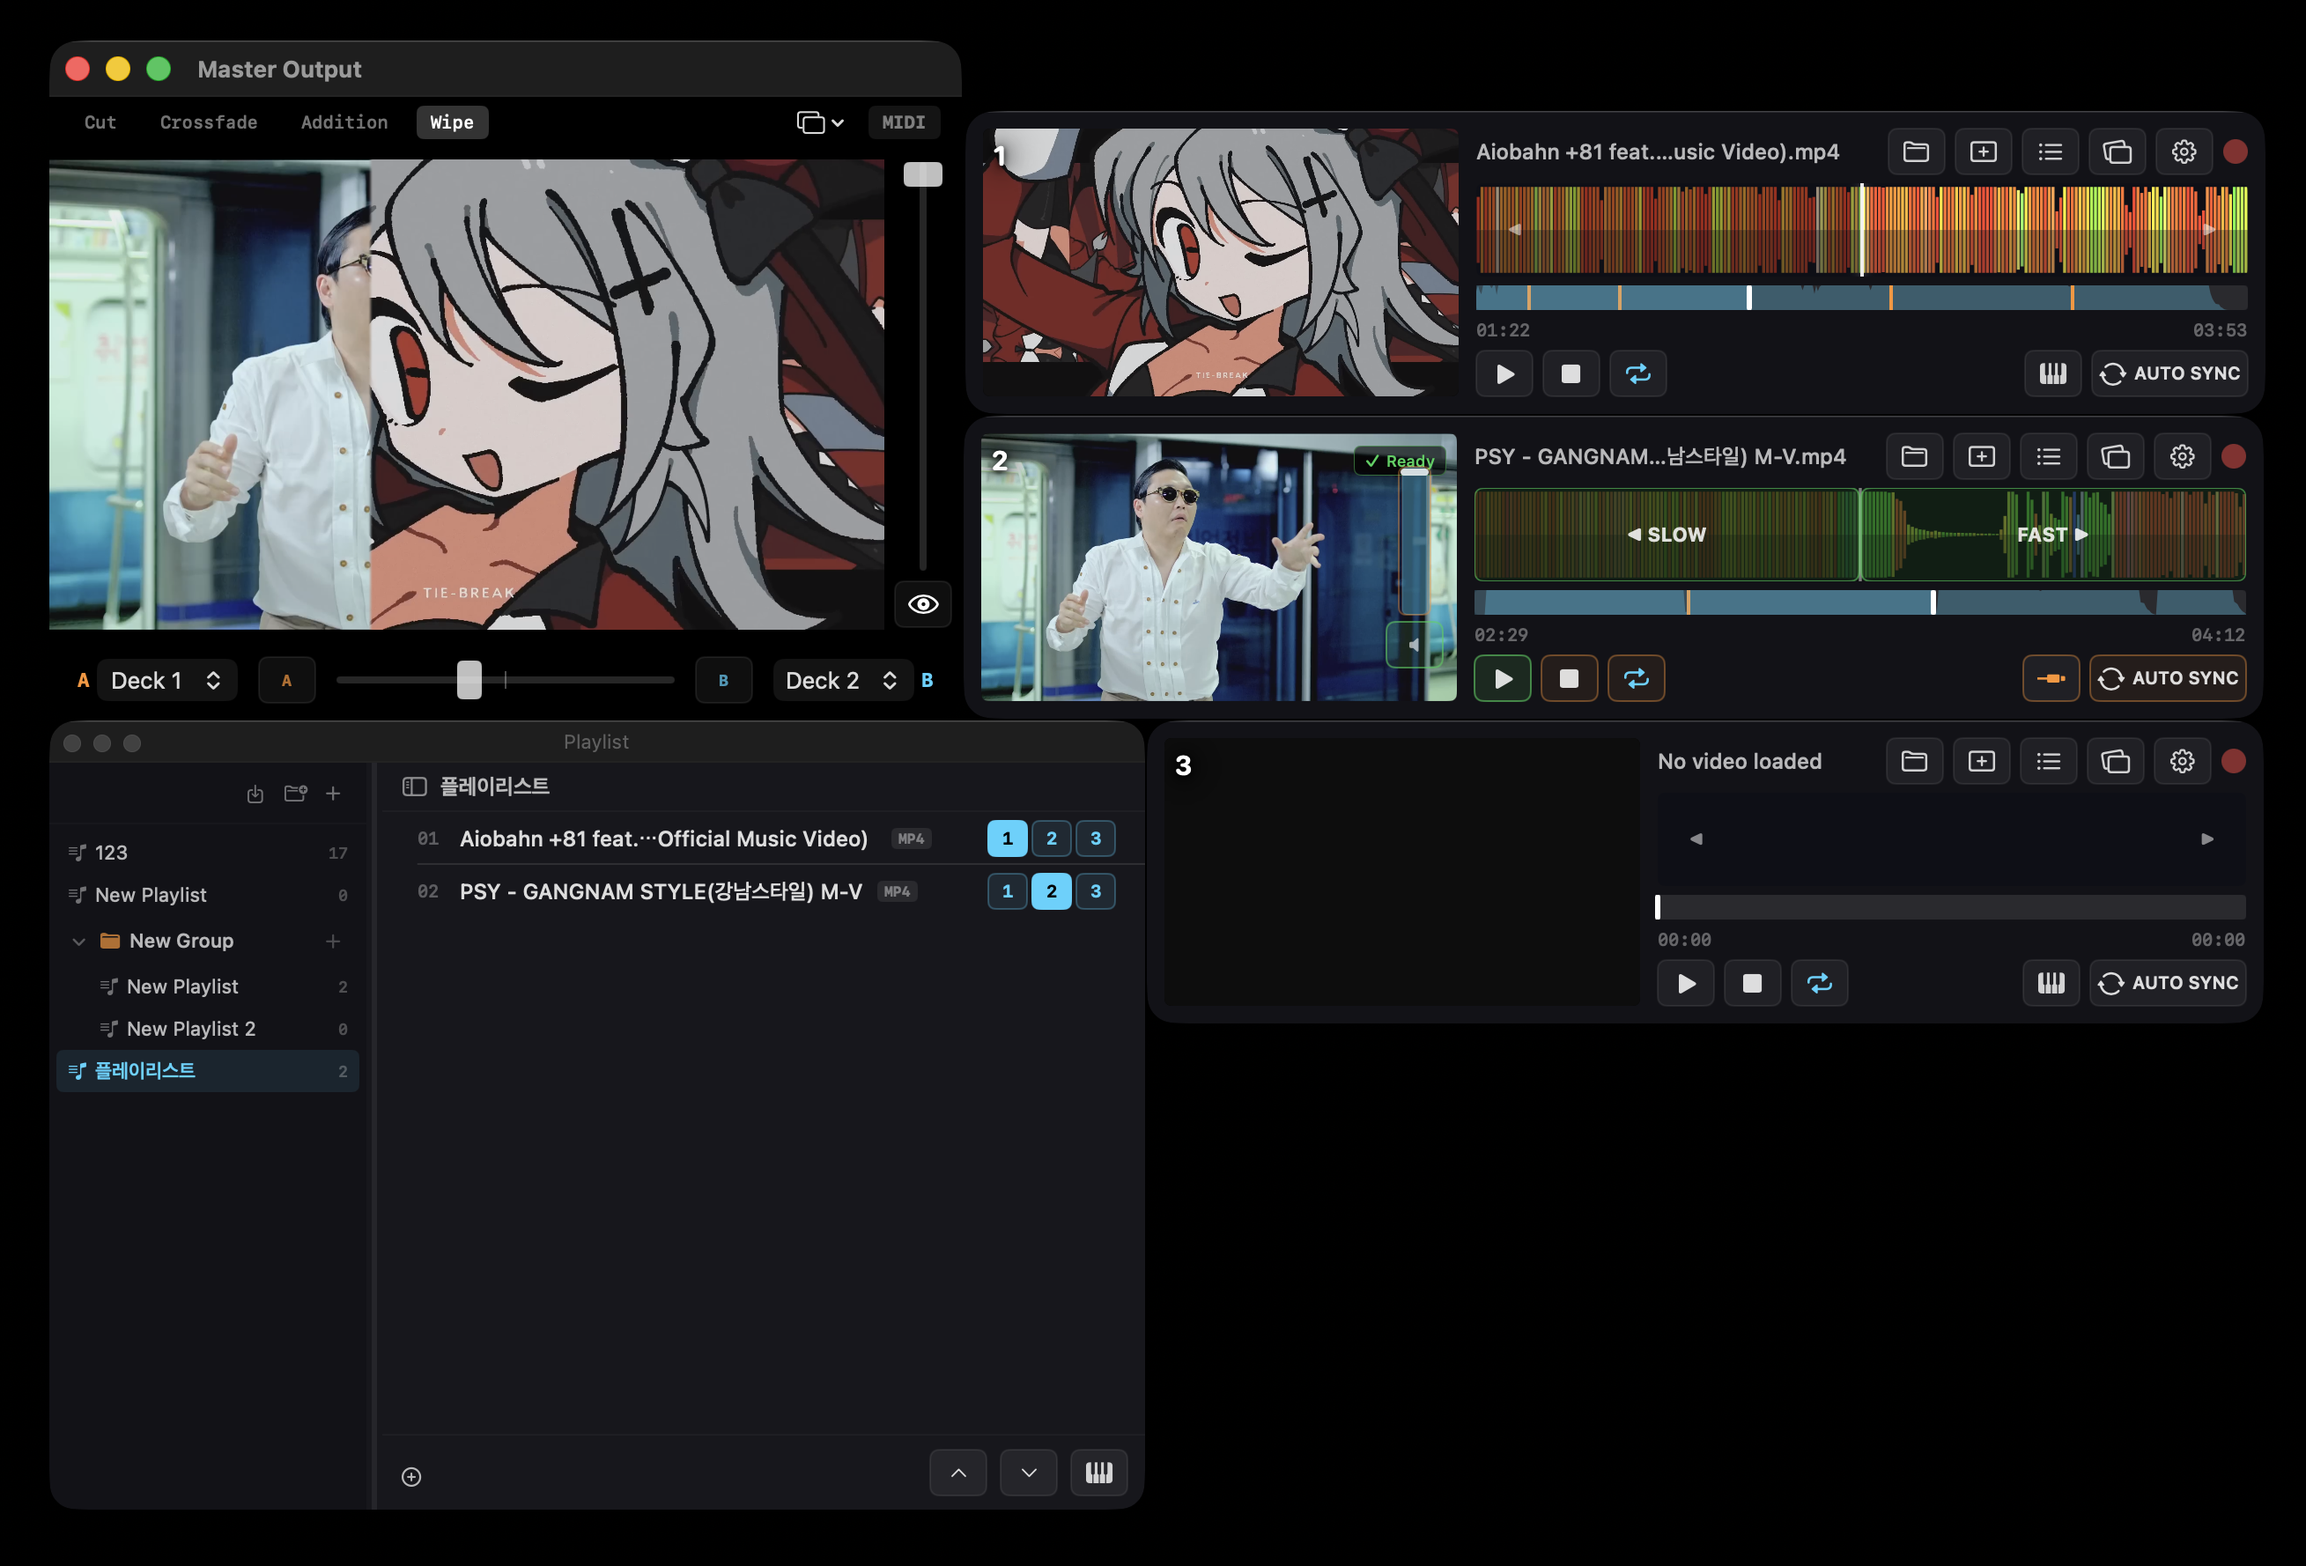
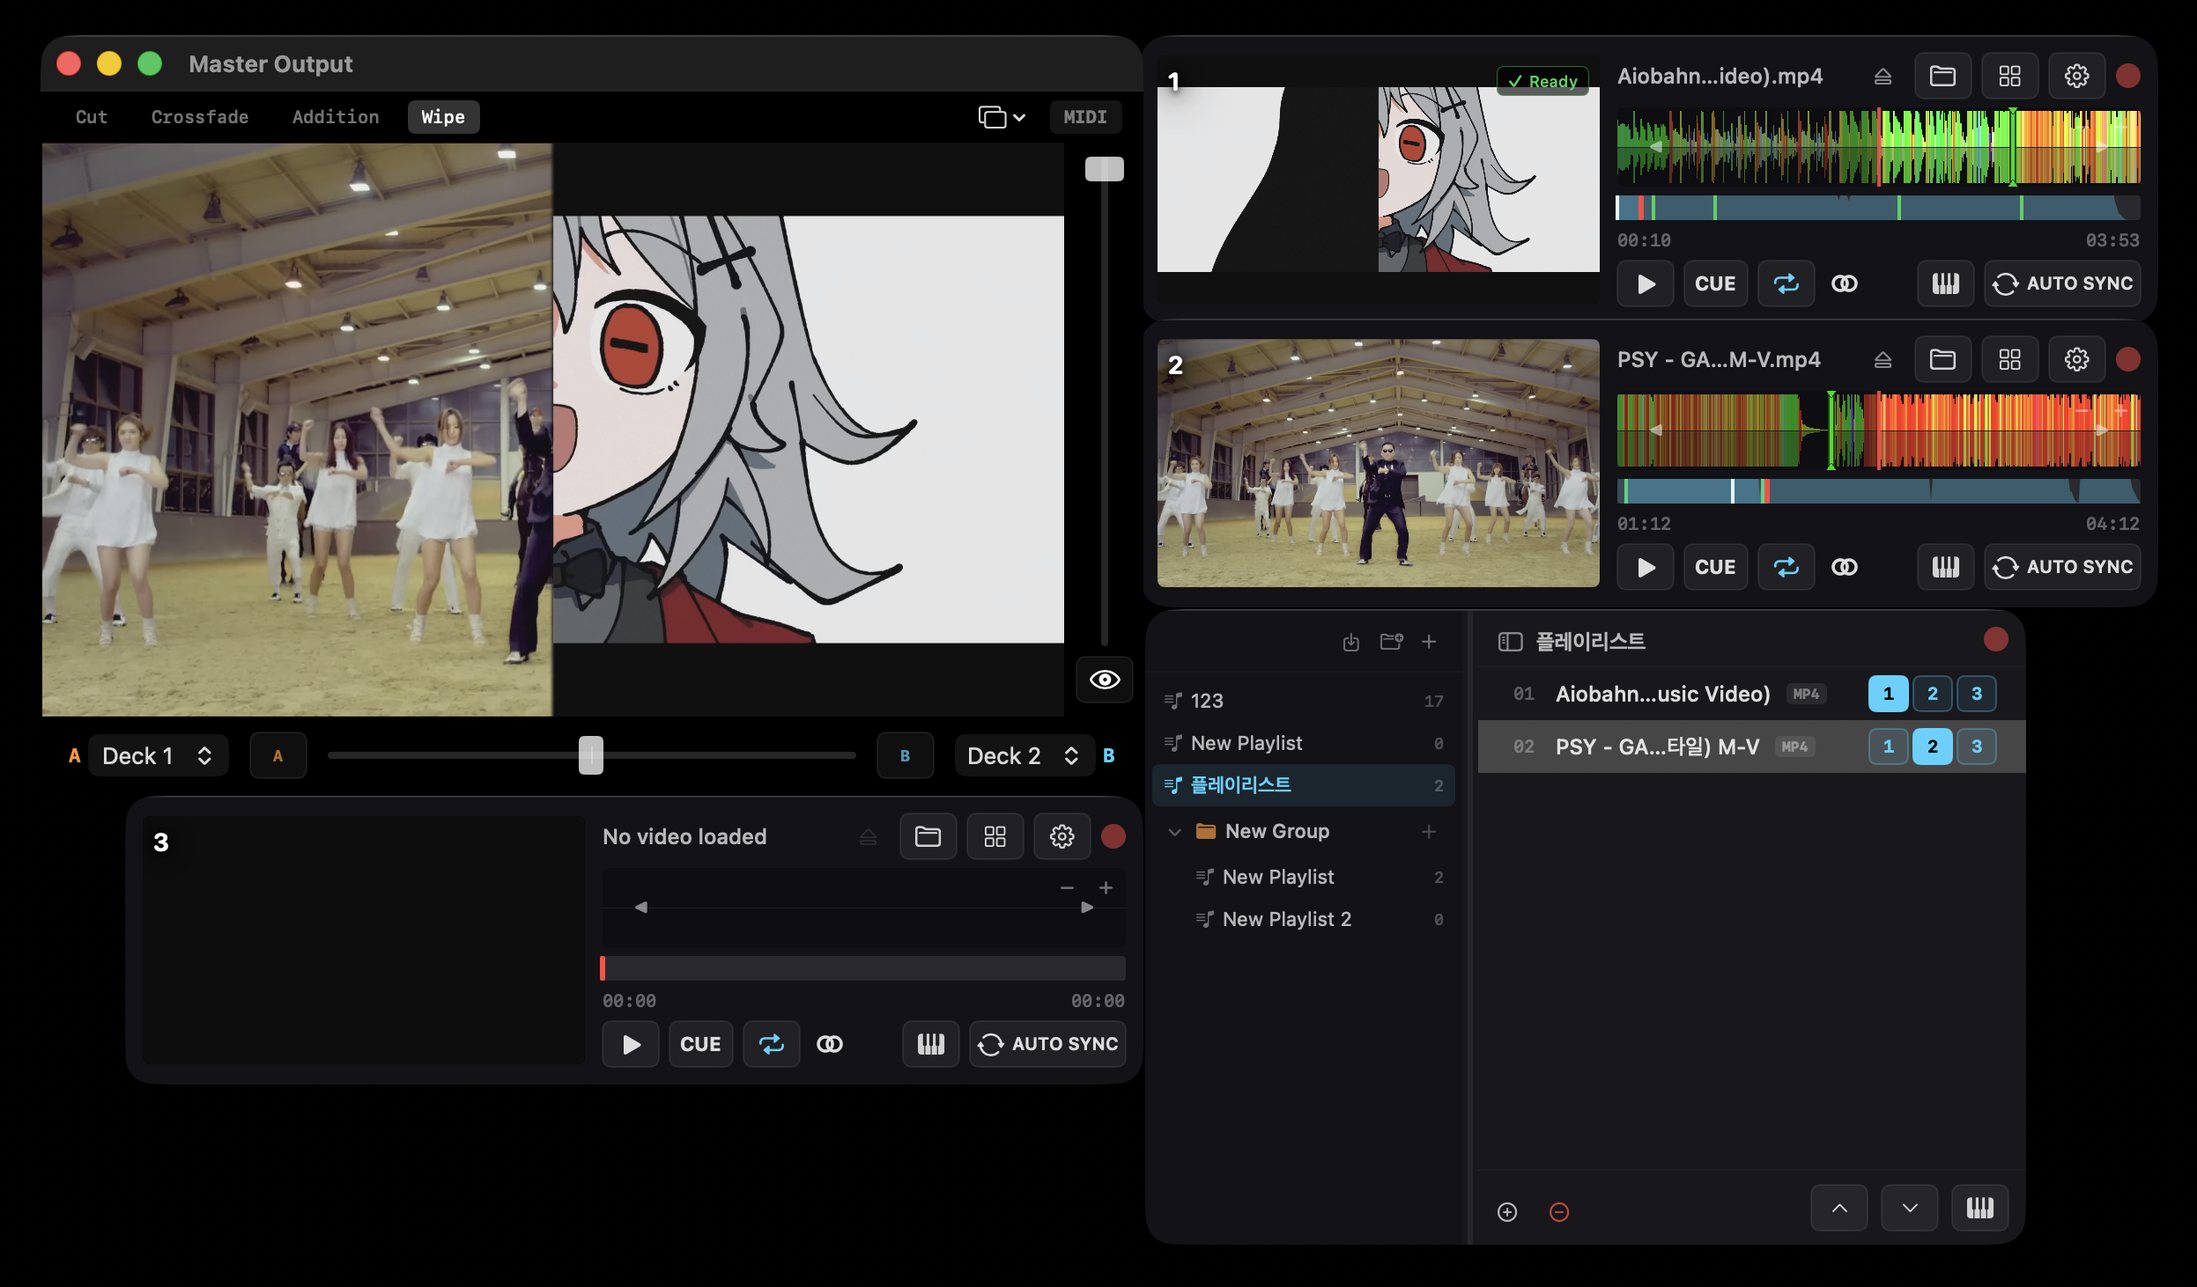
이미지 업데이트 — hero, midi, sync, waveform 교체 및 index.html 반영

diff --git a/index.html b/index.html
@@ -284,6 +284,7 @@
       <div class="feat-item"><h4>Syphon</h4><p data-i18n="f6_p"></p></div>
       <div class="feat-item"><h4 data-i18n="f7_h"></h4><p data-i18n="f7_p"></p></div>
       <div class="feat-item"><h4 data-i18n="f8_h"></h4><p data-i18n="f8_p"></p></div>
+      <div class="feat-item"><h4 data-i18n="f9_h"></h4><p data-i18n="f9_p"></p></div>
     </div>
   </div>
 
@@ -390,6 +391,7 @@ const T = {
     f6_p: '덱별 + Master Syphon 서버. 원하는 VJ 소프트웨어로 자유롭게 라우팅.',
     f7_h: '플레이리스트', f7_p: '그룹별 영상 정리, 원하는 덱에 바로 로드. M3U 가져오기/내보내기.',
     f8_h: '포맷 걱정 없음', f8_p: 'MP4, MKV, WebM, AVI 등 뭐든. FFmpeg + VideoToolbox 하드웨어 가속.',
+    f9_h: '오디오 출력 선택', f9_p: '덱별로 오디오 출력 장치를 개별 지정. 각 덱의 사운드를 원하는 스피커로 라우팅.',
     mo_h3: '두 덱을 하나로',
     mo_p: '크로스페이더를 움직이면 A에서 B로 자연스럽게 전환됩니다. 화면비가 다른 영상도 알아서 맞춰줍니다. 프로젝터나 LED 월에 연결된 외부 디스플레이에 전체화면으로 바로 출력할 수 있어서, 다른 소프트웨어 없이 이것만으로 라이브 현장 VJ가 가능합니다.',
     wf_h3: '곡의 흐름이 보인다',
@@ -420,6 +422,7 @@ const T = {
     f6_p: 'デッキ別 + Master Syphonサーバー。お好みのVJソフトウェアへ自由にルーティング。',
     f7_h: 'プレイリスト', f7_p: 'グループ別に映像を整理、好きなデッキにすぐロード。M3Uインポート/エクスポート。',
     f8_h: 'フォーマット不問', f8_p: 'MP4、MKV、WebM、AVIなど何でも。FFmpeg + VideoToolboxハードウェアアクセラレーション。',
+    f9_h: 'オーディオ出力選択', f9_p: 'デッキごとにオーディオ出力デバイスを個別指定。各デッキのサウンドを好きなスピーカーへルーティング。',
     mo_h3: '2つのデッキを1つに',
     mo_p: 'クロスフェーダーを動かすとAからBへ自然に切り替わります。アスペクト比が異なる映像も自動的に合わせます。プロジェクターやLEDウォールに接続した外部ディスプレイにフルスクリーンでそのまま出力でき、他のソフトウェアなしでこれだけでライブ現場VJが可能です。',
     wf_h3: '曲の流れが見える',
@@ -450,6 +453,7 @@ const T = {
     f6_p: 'Per-deck + Master Syphon servers. Route freely to any VJ software.',
     f7_h: 'Playlist', f7_p: 'Organize videos by group, load to any deck instantly. M3U import/export.',
     f8_h: 'Any format', f8_p: 'MP4, MKV, WebM, AVI — whatever. FFmpeg + VideoToolbox hardware acceleration.',
+    f9_h: 'Audio Output', f9_p: 'Per-deck audio output device selection. Route each deck\'s sound to the speaker you want.',
     mo_h3: 'Two decks, one output',
     mo_p: 'Move the crossfader and A transitions smoothly into B. Aspect ratios are matched automatically. Output fullscreen to an external display connected to a projector or LED wall — no other software needed for live VJ on stage.',
     wf_h3: 'See the flow of the track',
